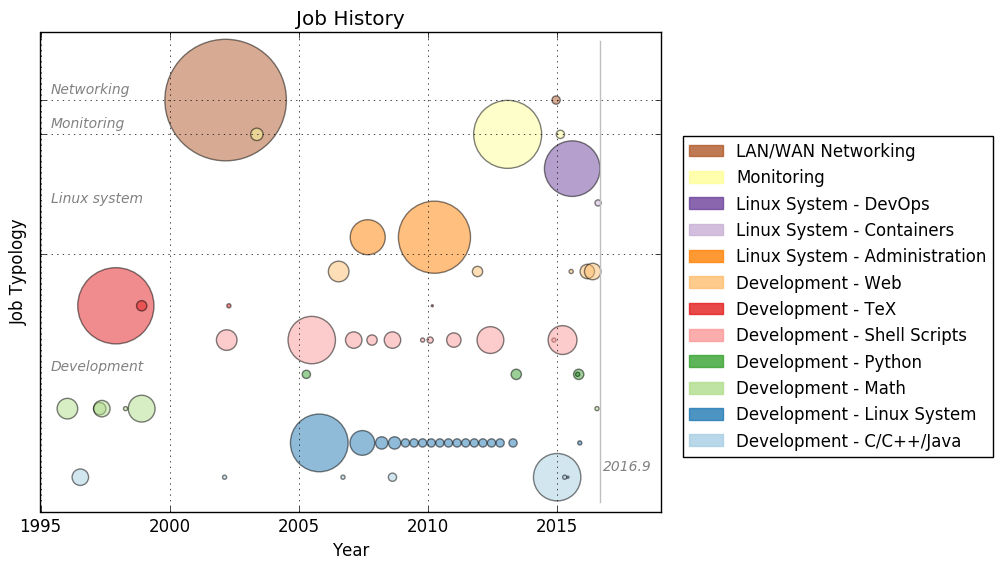
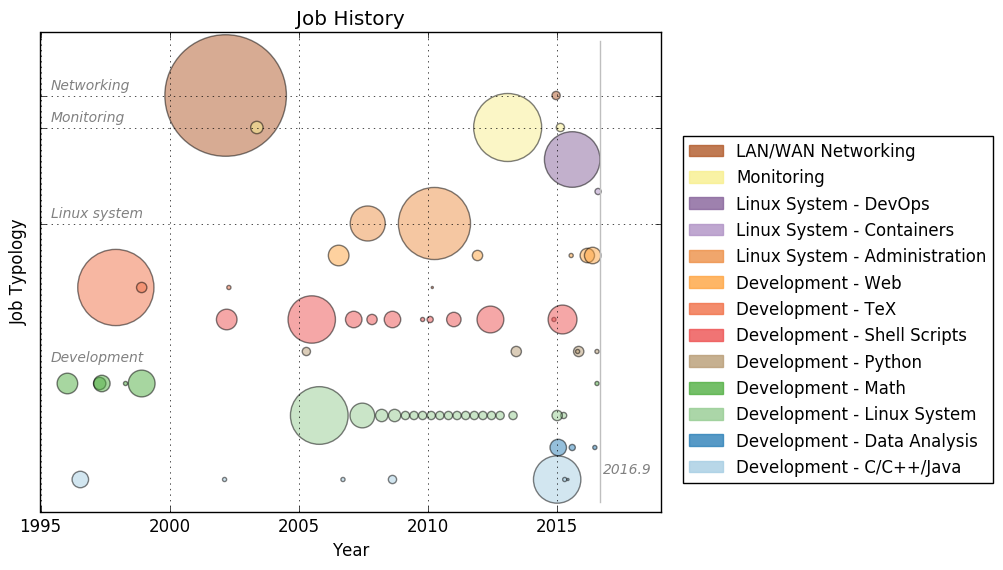
plot-experiences.py: update the list of experiences

diff --git a/scripts/plot-experiences.py b/scripts/plot-experiences.py
@@ -15,6 +15,7 @@ import datetime
 # List of job categories
 job_list = [
    'Development - C/C++/Java',
+   'Development - Data Analysis',
    'Development - Linux System',
    'Development - Math',
    'Development - Python',
@@ -89,6 +90,7 @@ jobs = [
    { 'year_start': [2012,  1], 'year_end': [2012,  4], 'type': 'Development - Linux System' },
    { 'year_start': [2012,  5], 'year_end': [2012,  8], 'type': 'Development - Linux System' },
    { 'year_start': [2012,  9], 'year_end': [2012, 12], 'type': 'Development - Linux System' },
+   { 'year_start': [2015,  3], 'year_end': [2015,  5], 'type': 'Development - Linux System' },
    #
    { 'year_start': [2008,  7], 'year_end': [2008, 10], 'type': 'Development - C/C++/Java' },
    { 'year_start': [2008, 11], 'year_end': [2011,  9], 'type': 'Linux System - Administration' },
@@ -109,6 +111,10 @@ jobs = [
    # Base SUD Networking
    { 'year_start': [2014, 11], 'year_end': [2015,  2], 'type': 'LAN/WAN Networking' },
    { 'year_start': [2015,  1], 'year_end': [2015,  4], 'type': 'Monitoring' },
+   # MOOCs Data Analysis
+   { 'year_start': [2014, 10], 'year_end': [2015,  5], 'type': 'Development - Data Analysis' },
+   { 'year_start': [2015,  7], 'year_end': [2015,  9], 'type': 'Development - Data Analysis' },
+   { 'year_start': [2016,  6], 'year_end': [2016,  7], 'type': 'Development - Data Analysis' },
    # MOOC C++
    { 'year_start': [2015,  4], 'year_end': [2015,  5], 'type': 'Development - C/C++/Java' },
    # MOOCs Java
@@ -119,14 +125,15 @@ jobs = [
    { 'year_start': [2015,  9], 'year_end': [2016,  1], 'type': 'Development - Python' },
    # System tools
    { 'year_start': [2015, 10], 'year_end': [2015, 11], 'type': 'Development - Python' },
-   # openmamba - Data Analisys tools
-   { 'year_start': [2015, 11], 'year_end': [2015, 12], 'type': 'Development - Linux System' },
+   # openmamba - Data Analysis tools
+   { 'year_start': [2014, 11], 'year_end': [2015,  3], 'type': 'Development - Linux System' },
    # Full Stack Web Specialization
    { 'year_start': [2015, 12], 'year_end': [2016,  6], 'type': 'Development - Web' },
    # jQuery, TypeScript, Angular.js, JavaScript, MongoDB
    { 'year_start': [2016,  2], 'year_end': [2016,  9], 'type': 'Development - Web' },
    # MOOC Dynamic Systems and Chaos
    { 'year_start': [2016,  7], 'year_end': [2016,  8], 'type': 'Development - Math' },
+   { 'year_start': [2016,  7], 'year_end': [2016,  8], 'type': 'Development - Python' },
    # Steria - poc: build infrastructure using GitLab and Docker)
    { 'year_start': [2016,  7], 'year_end': [2016,  9], 'type': 'Linux System - Containers' },
 ]
@@ -171,7 +178,6 @@ ax.scatter(x=year, y=jobtype, s=shape,
 
 # Get the current date
 now = datetime.datetime.now()
-print now.year
 
 # Add axis labels
 ax.set_xlabel('Year')
@@ -181,7 +187,7 @@ ax.set_xlim([1995, now.year + 3])
 ax.set_ylim([-1, len(job_list) + 1])
 
 # Add grid - fixme: yticks[] has to be manually adjusted
-yticks = [6.5, 10, 11]
+yticks = [8, 11, 12]
 ax.set_yticks(yticks)
 ax.set_yticklabels([''])
 ax.grid('on')
@@ -197,10 +203,10 @@ def textlabel(x, y, text):
 
 # Add some text labels to hopefully improve the plot readability
 # fixme: the y coordinate has to be set manually
-textlabel(1995.4,  3.1, 'Development')
-textlabel(1995.4,  8.0, 'Linux system')
-textlabel(1995.4, 10.2, 'Monitoring')
-textlabel(1995.4, 11.2, 'Networking')
+textlabel(1995.4,  3.7, 'Development')
+textlabel(1995.4,  8.2, 'Linux system')
+textlabel(1995.4, 11.2, 'Monitoring')
+textlabel(1995.4, 12.2, 'Networking')
 textlabel(xnow + 0.1, 0.2, "%s.%s" % (now.year, now.month))
 
 # Add a legend
